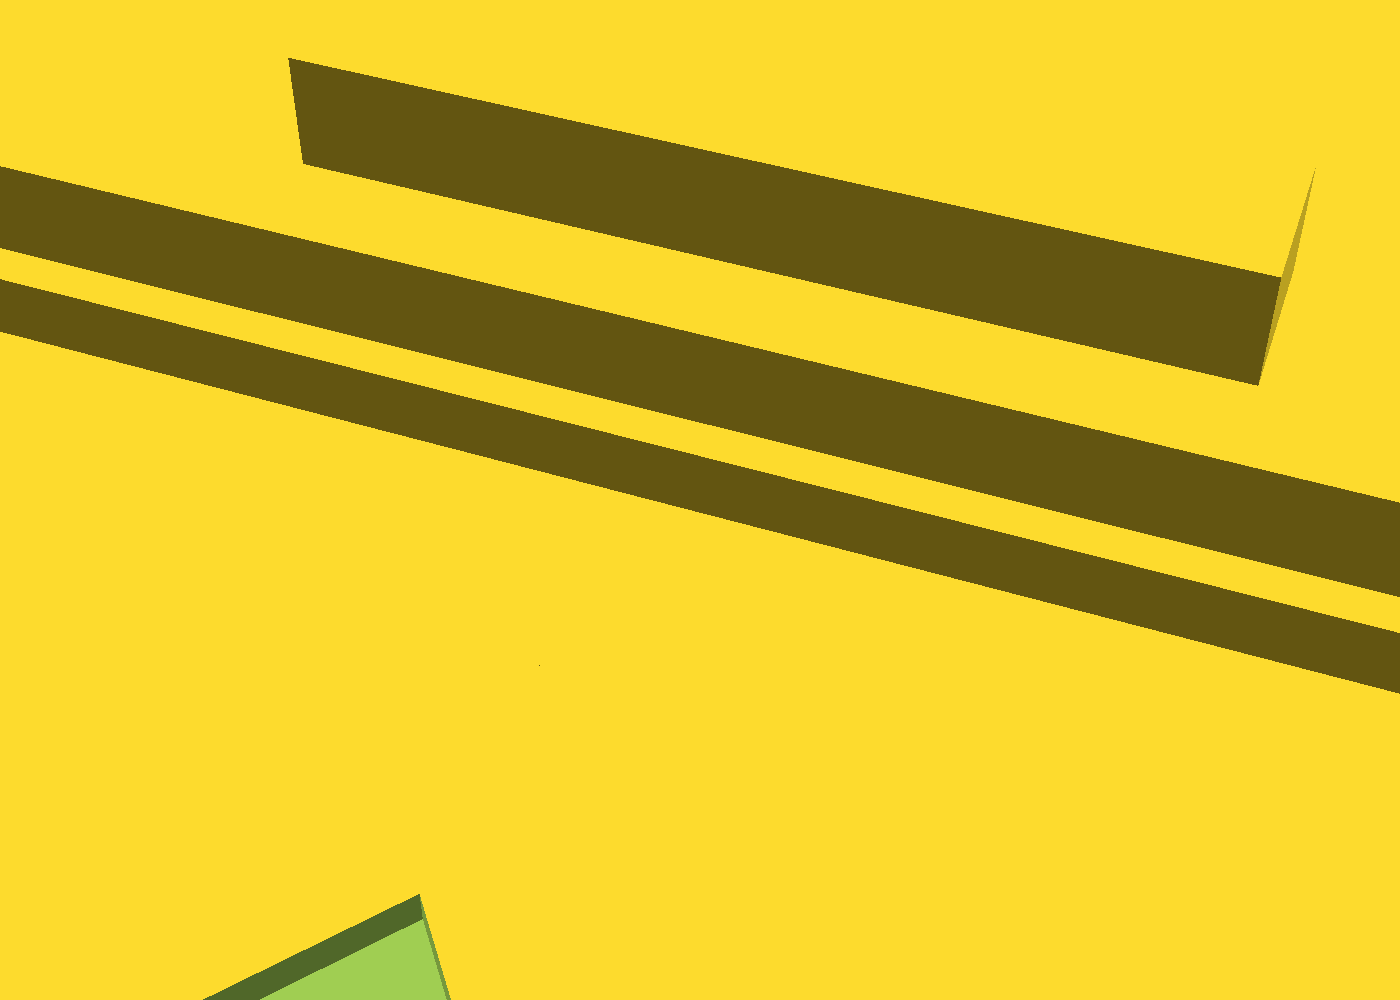
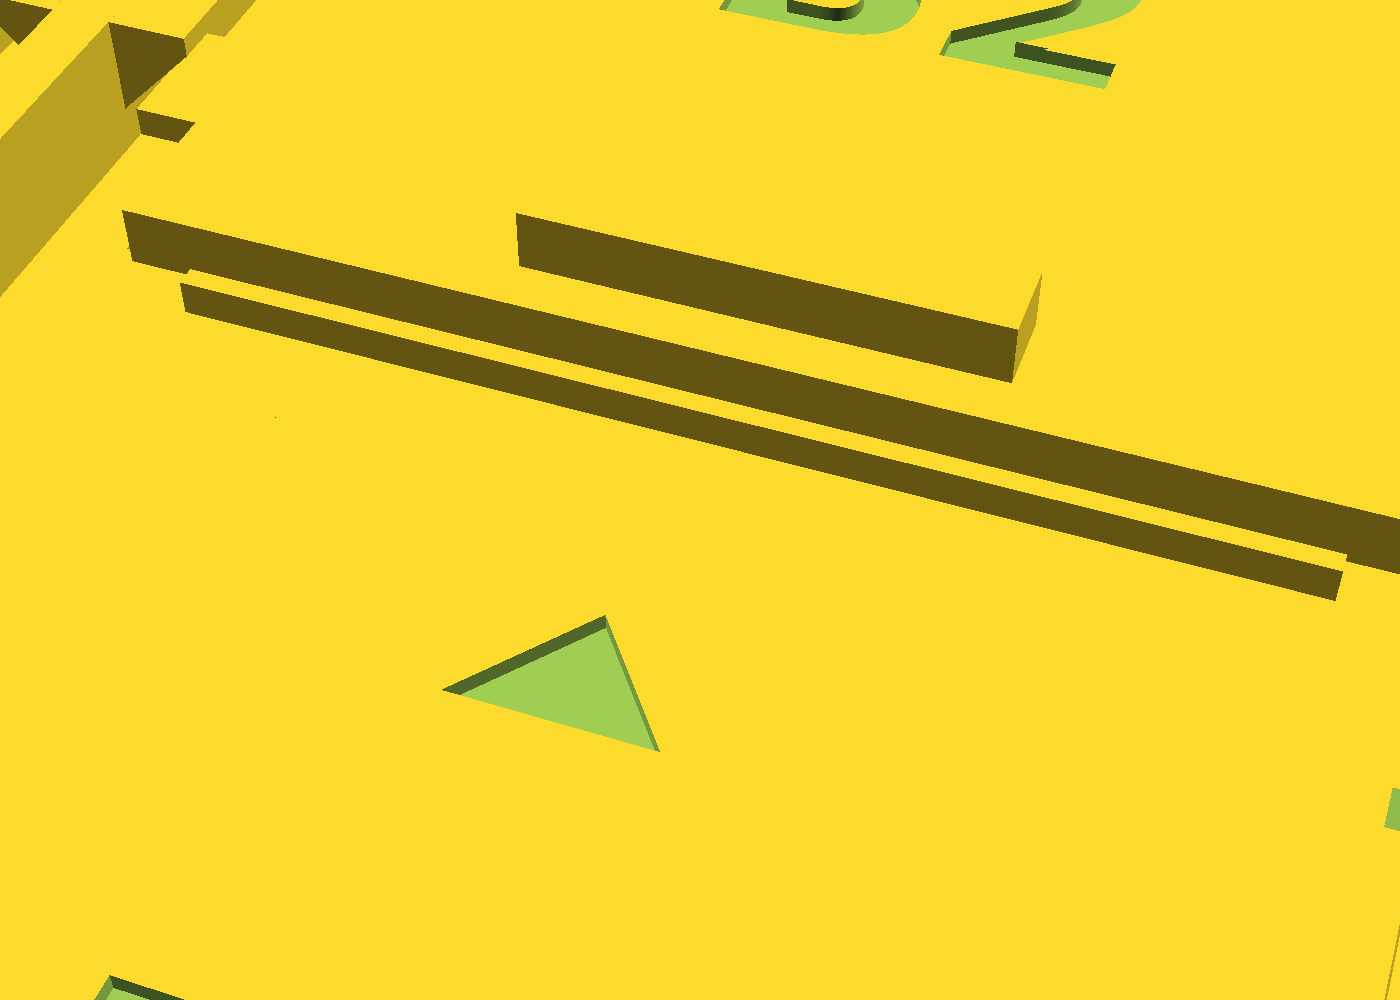
Update design: sushi-battleship - reviewer camera re-frames and bridge note
- Re-frame slide-section.png (fills the frame, centred on the
  row-1/row-2 boundary) and ridge-closeup.png (pulled back so both
  neighbouring doors give the 0.5 mm ridge channel scale) - one-time
  re-frames on reviewer request before the camera freeze, recorded
  in CAMERAS.md.
- NOTES: bridge direction is the slicer's decision, not the
  geometry's - soften the wording and note pinning Bridge
  direction/Bridging angle to 90 deg to guarantee the slide-axis run.

Claude-Session: https://claude.ai/code/session_01HqNeh4GDT41NzkucQjW4Bd

diff --git a/designs/sushi-battleship/previews/CAMERAS.md b/designs/sushi-battleship/previews/CAMERAS.md
@@ -44,20 +44,24 @@ xvfb-run -a openscad --render -o $PRE/cutaway.png --imgsize=1600,400 \
   --projection=o --camera=-29,-160,5,90,0,0,80 -D 'part="cutaway"' $SRC
 ```
 
-**slide-section.png** — Y-Z section through the centre of column B:
-rear 1.6 mm vs front 0.8 mm window chamfers, end-stop ridge with its
-0.5 mm gap to the door face, grip bar profile:
+**slide-section.png** — Y-Z section through the centre of column B,
+framed on the row-1/row-2 boundary: rear 1.6 mm vs front 0.8 mm window
+chamfers, end-stop ridge with its 0.5 mm gap to the door face, grip
+bar profile (re-framed once on reviewer request before the camera
+freeze, 2026-08-01):
 
 ```bash
-xvfb-run -a openscad --render -o $PRE/slide-section.png --imgsize=1600,500 \
-  --projection=o --camera=-29,-87,4,90,0,-90,100 -D 'part="cutaway_slide"' $SRC
+xvfb-run -a openscad --render -o $PRE/slide-section.png --imgsize=1600,320 \
+  --projection=o --camera=-29,-58,4,90,0,-90,55 -D 'part="cutaway_slide"' $SRC
 ```
 
-**ridge-closeup.png** — top view onto the row-1/row-2 boundary of
-column B: the end-stop ridge runs parallel to door B2's leading edge
-with the 0.5 mm ridge_gap channel between them:
+**ridge-closeup.png** — view onto the row-1/row-2 boundary of column B
+with both neighbouring doors in frame for scale: door B1's rear edge
+(bottom, arrow visible), the end-stop ridge, the 0.5 mm ridge_gap
+channel, and door B2's leading edge and grip (top). Re-framed once on
+reviewer request before the camera freeze, 2026-08-01:
 
 ```bash
 xvfb-run -a openscad -o $PRE/ridge-closeup.png --imgsize=1400,1000 \
-  --camera=-29,-55,3,45,0,20,45 -D 'part="top"' $SRC
+  --camera=-29,-58,3,45,0,20,85 -D 'part="top"' $SRC
 ```

diff --git a/designs/sushi-battleship/NOTES.md b/designs/sushi-battleship/NOTES.md
@@ -94,8 +94,12 @@ Battleship played with real sushi. Two printed parts:
   above the plate. The door's first layer bridges its window in free
   air, anchored by the 1.2 mm plate strip under its front edge, the
   0.4 mm strip under its rear edge, ~0.5 mm under each long edge, and
-  the six tab pads over the rails — so bridge strands run along the
-  slide axis between the end strips. After printing: free each door
+  the six tab pads over the rails — so bridge strands *should* run
+  along the slide axis between the end strips. The bridge angle is
+  ultimately the slicer's choice, though: pin it (Bambu/Orca "Bridge
+  direction" = 90° with the top as modeled; PrusaSlicer
+  "Bridging angle") to make the slide-axis run a guarantee instead of
+  a bet. After printing: free each door
   with one firm push toward the arrow, then punch the membranes out
   with a fingertip or knife.
 - **Membrane role and punch-out aftermath** (comment corrected in PR #3
